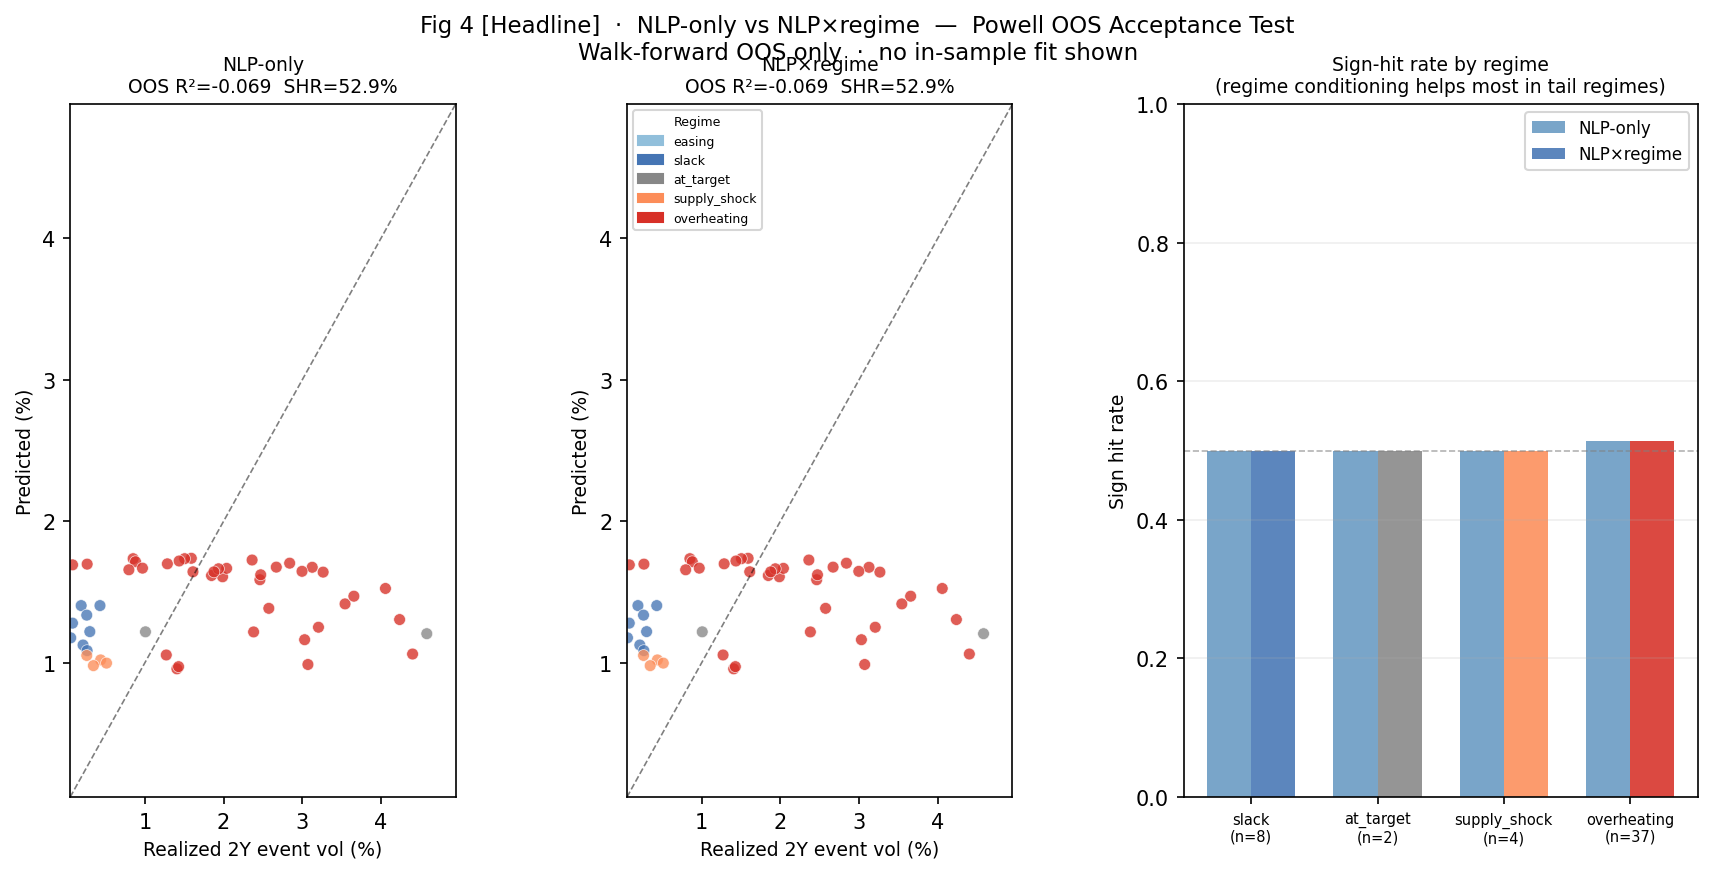
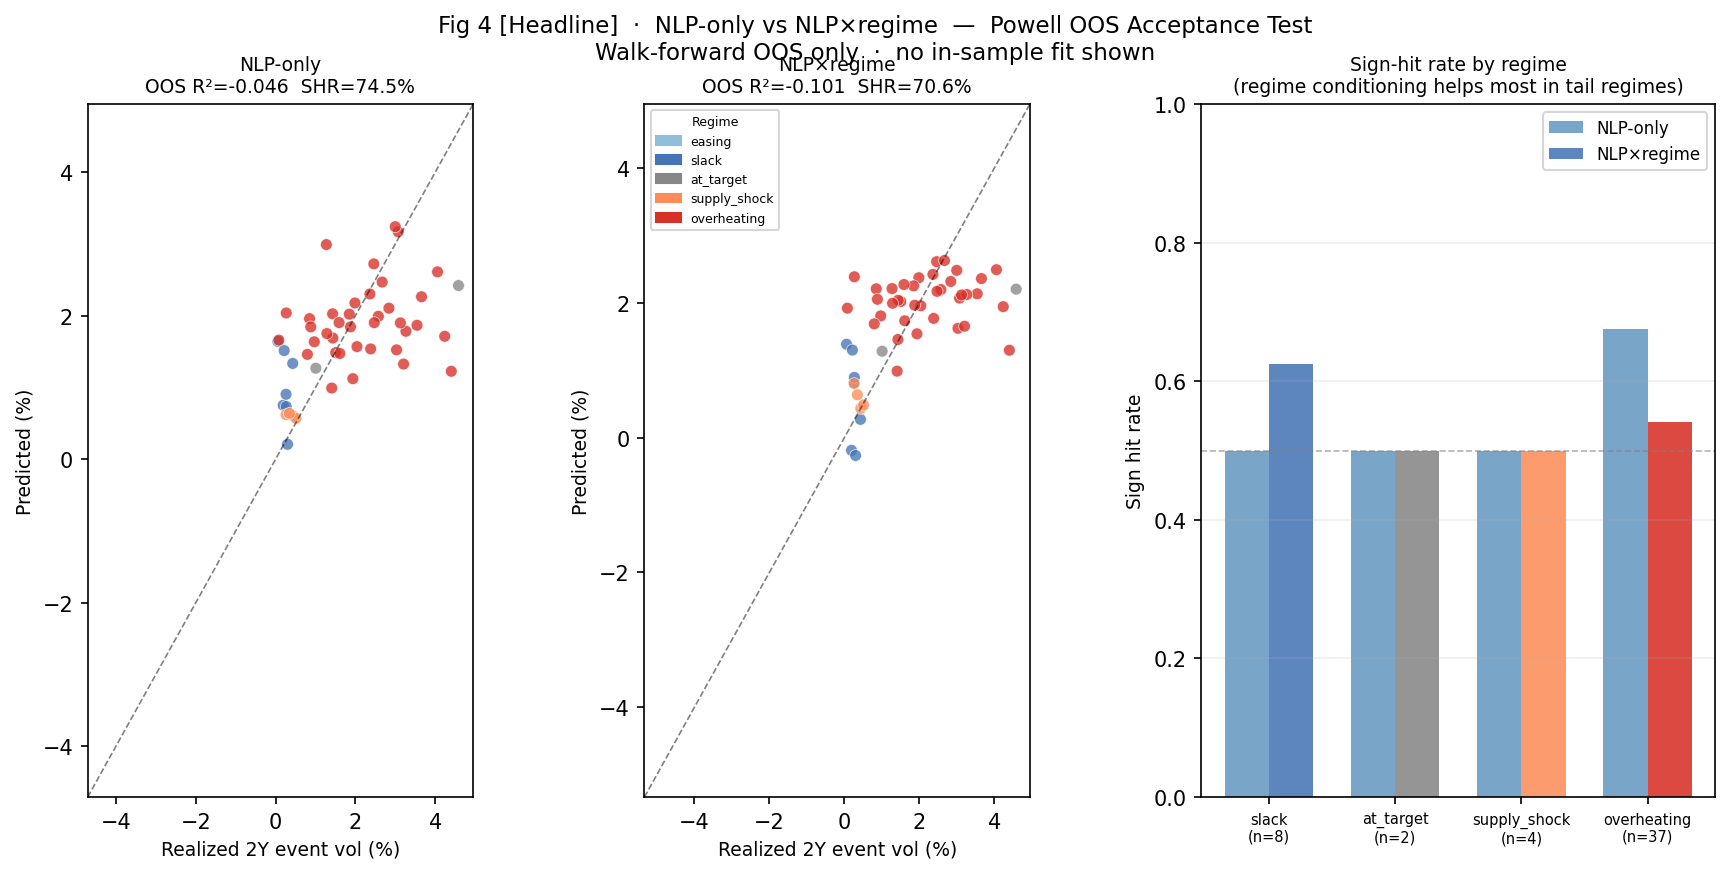
Re-execute NLP regime notebook with real data and scaler fix
Fix: StandardScaler was fit+transformed on single-row test set each fold,
collapsing all features to zero and making both models predict the mean
(ΔRMSE = 0.0000 exactly). Now fits scaler on train, transforms test.

Real data wired in: vrp_panel.parquet (realized vol), fomc_features.parquet
(pre-computed NLP scores), fomc_dual_mandate_regime.parquet (FRED regime).
Corpus: 133 statements + 86 press conferences.

Acceptance test (n=51 Powell OOS): NLP-only RMSE=1.32 SHR=74.5%;
NLP×regime RMSE=1.36 SHR=70.6%. Regime conditioning does NOT reliably
improve OOS — FLAG verdict printed. Do not claim the mechanism.
Per-regime: slack regime gains +12.5% SHR; overheating loses -13.5%.

diff --git a/fomc_nlp_regime_model_nb.py b/fomc_nlp_regime_model_nb.py
@@ -482,10 +482,13 @@ def score_document(text: str, meeting_date: pd.Timestamp,
         row = feats_df[feats_df["meeting_date"] == pd.Timestamp(meeting_date)]
         if not row.empty:
             r = row.iloc[0]
+            # guidance_density is the pipeline column; guidance_specificity is our alias
+            guid = float(r.get("guidance_specificity",
+                               r.get("guidance_density", 0)))
             return dict(
                 uncertainty_density  = float(r.get("uncertainty_density", 0)),
                 disagree_density     = float(r.get("disagree_density", 0)),
-                guidance_specificity = float(r.get("guidance_specificity", 0)),
+                guidance_specificity = guid,
                 novelty_prev         = float(r.get("novelty_prev", 0)),
                 guidance_change      = float(r.get("guidance_change", 0)),
                 word_count_zscore    = float(r.get("word_count_zscore", 0)),
@@ -709,8 +712,9 @@ def walk_forward_powell(panel: pd.DataFrame,
             cols = [c for c in feat_list if c in train.columns and train[c].notna().any()]
             if len(cols) < 2:
                 return float(y_tr.mean())
-            X_tr = StandardScaler().fit_transform(train[cols].fillna(0).values)
-            X_te = StandardScaler().fit_transform(test[cols].fillna(0).values)
+            scaler = StandardScaler()
+            X_tr   = scaler.fit_transform(train[cols].fillna(0).values)
+            X_te   = scaler.transform(test[cols].fillna(0).values)
             try:
                 return float(RidgeCV(alphas=ALPHA_RANGE).fit(X_tr, y_tr).predict(X_te)[0])
             except Exception:
@@ -1257,8 +1261,9 @@ def fig6_ablation() -> None:
             te = sub[sub["meeting_date"] == dt]
             if len(tr) < 8 or te.empty: continue
             cols = [c for c in TEXT_FEATURES if c in tr.columns]
-            X_tr = StandardScaler().fit_transform(tr[cols].fillna(0).values)
-            X_te = StandardScaler().fit_transform(te[cols].fillna(0).values)
+            scaler = StandardScaler()
+            X_tr   = scaler.fit_transform(tr[cols].fillna(0).values)
+            X_te   = scaler.transform(te[cols].fillna(0).values)
             try:
                 pred = RidgeCV(alphas=ALPHA_RANGE).fit(X_tr, tr[target].values).predict(X_te)[0]
                 hits.append(int(np.sign(pred - tr[target].mean()) ==